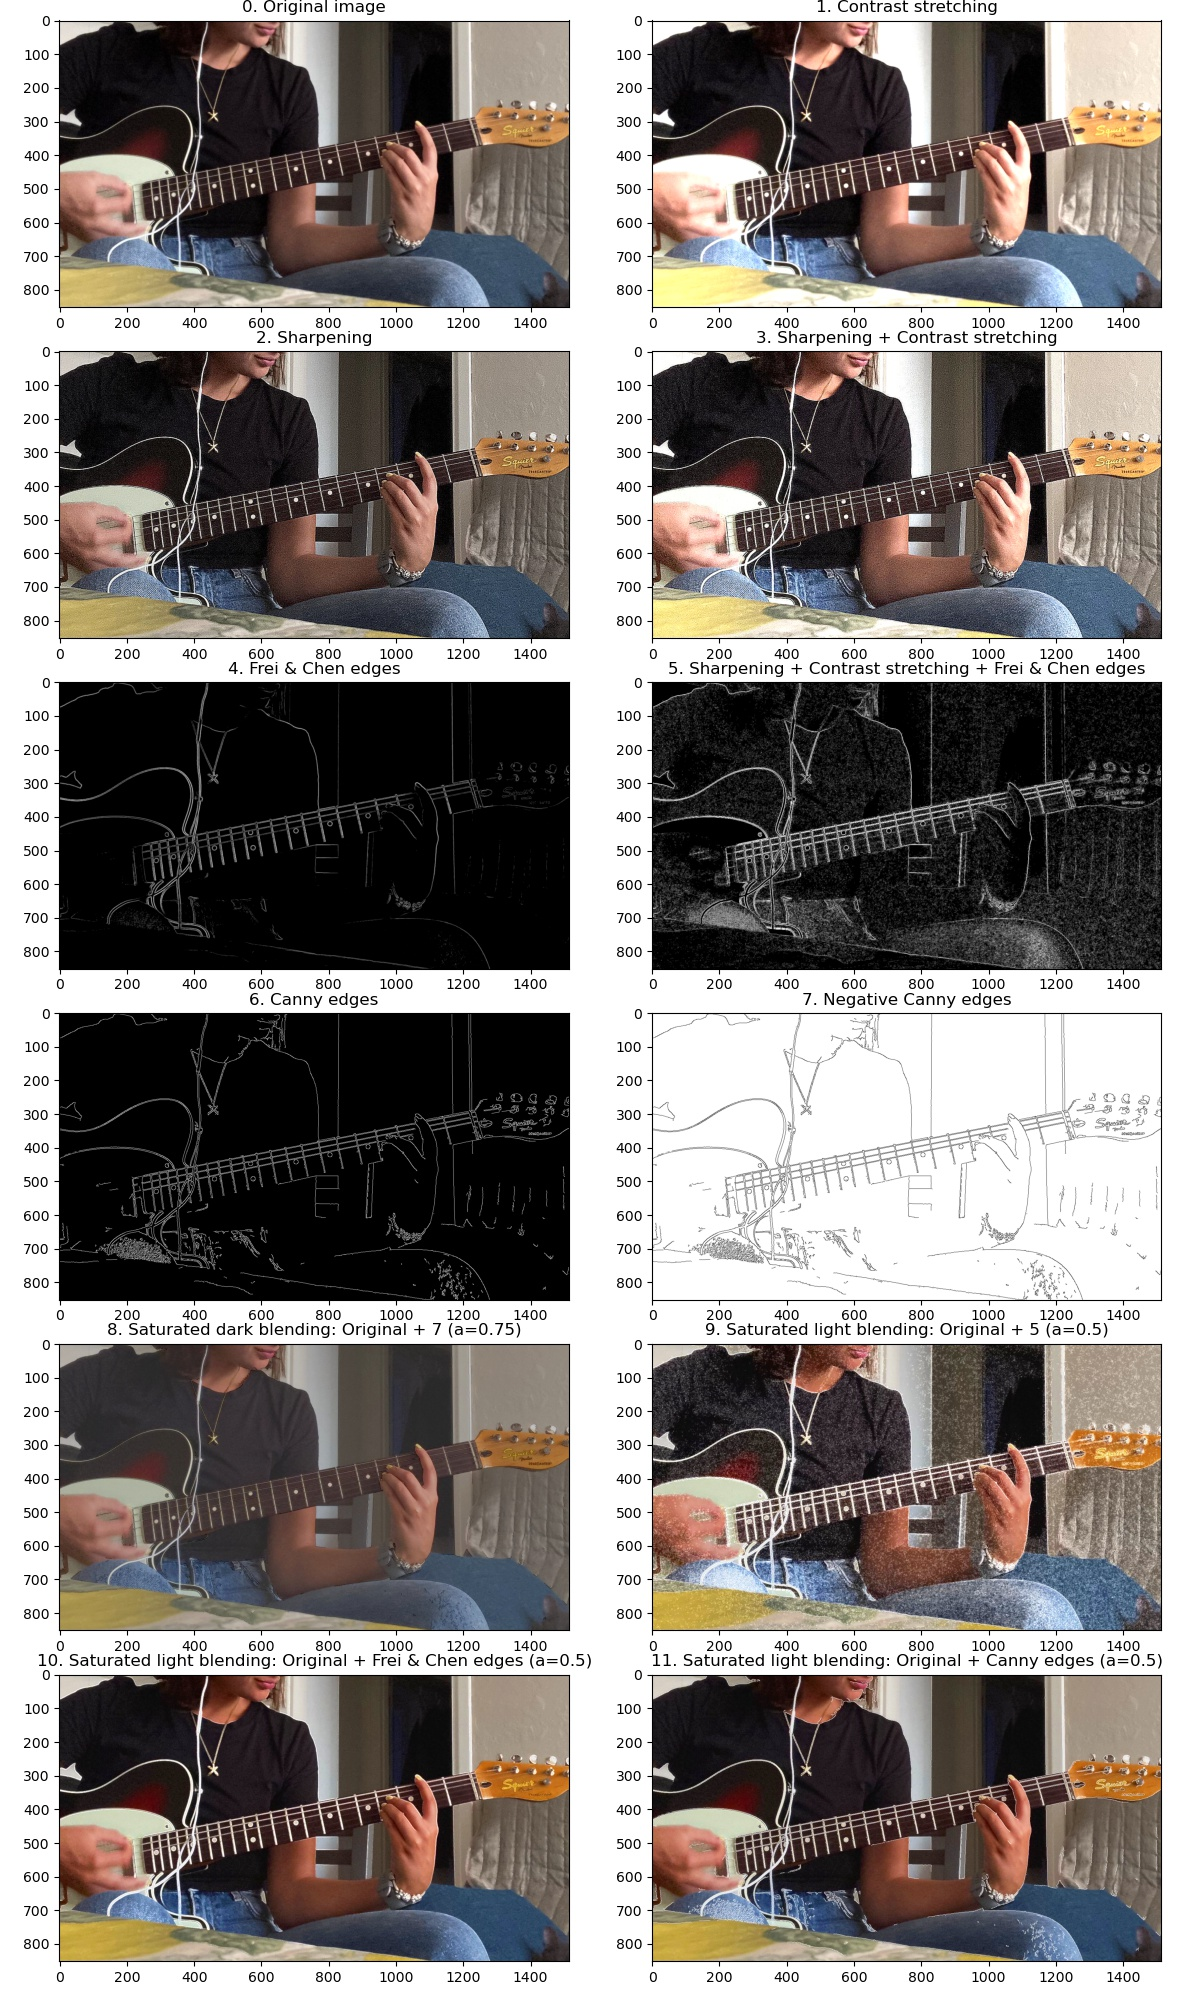
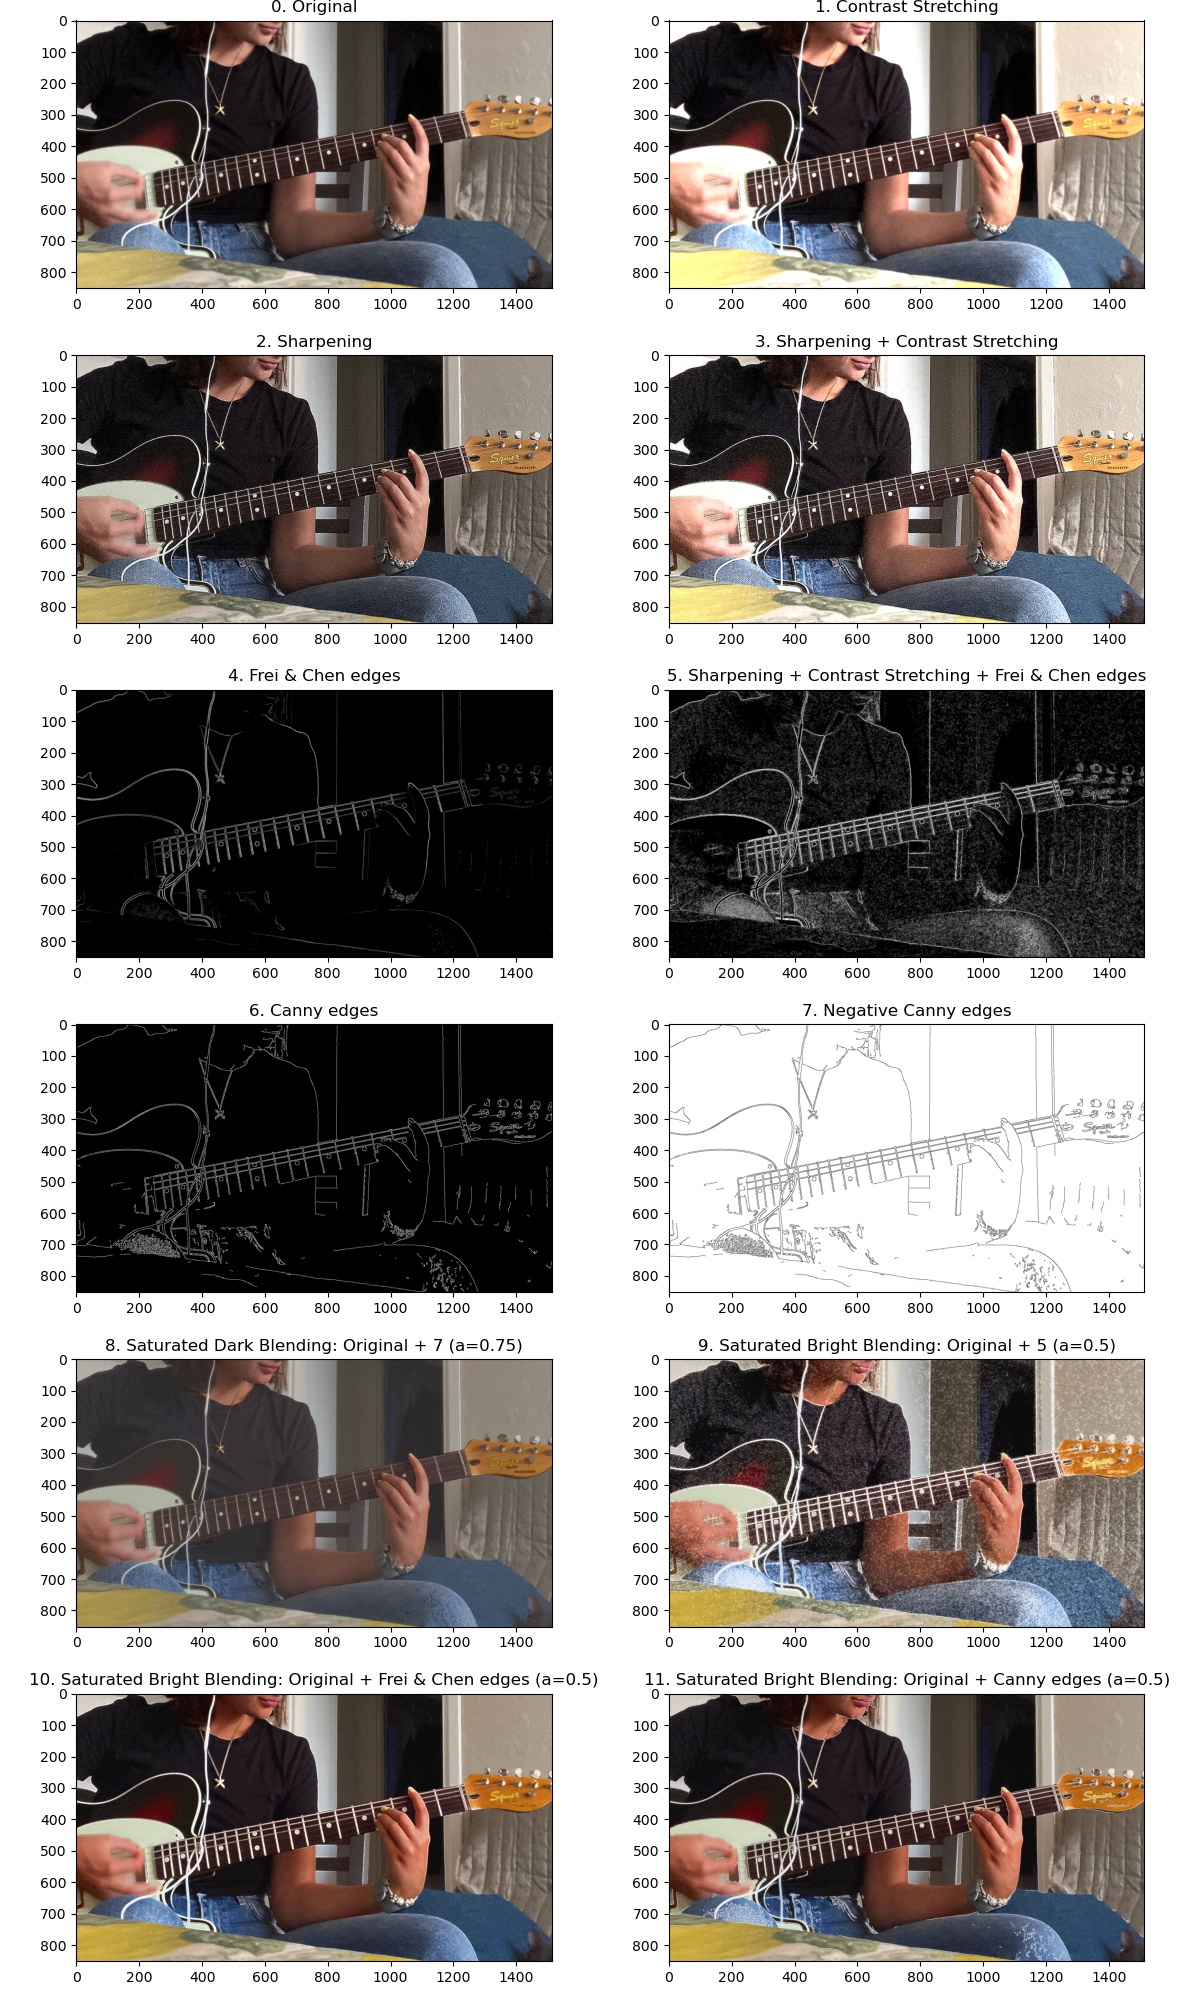
Processing and Temp images updated.

diff --git a/processing.py b/processing.py
@@ -128,10 +128,11 @@ if __name__ == '__main__':
 
     f, ax = plt.subplots(6, 2, figsize=(12, 20))
     f.tight_layout()
+    f.subplots_adjust(hspace=0.25)
 
     # 0 - ORIGINAL IMAGE
     ax[0][0].imshow(cv.cvtColor(img, cv.COLOR_BGR2RGB))
-    ax[0][0].set_title('0. Original image')
+    ax[0][0].set_title('0. Original')
 
     # Convert to Torch tensor (c, h, w)
     # img = np.swapaxes(np.swapaxes(img, 0, 2), 1, 2)
@@ -146,7 +147,7 @@ if __name__ == '__main__':
     # 1 - CONTRAST STRETCHING
     out_1 = contrast_stretching(img, bgr_mins, bgr_maxs, bgr_mins_1, bgr_maxs_1)
     ax[0][1].imshow(cv.cvtColor(out_1.numpy(), cv.COLOR_BGR2RGB))
-    ax[0][1].set_title('1. Contrast stretching')
+    ax[0][1].set_title('1. Contrast Stretching')
 
     # 2 - SHARPENING
     out_2 = sharpening(img)
@@ -156,7 +157,7 @@ if __name__ == '__main__':
     # 3 - SHARPENING + CONTRAST STRETCHING
     out_3 = contrast_stretching(out_2, bgr_mins, bgr_maxs, bgr_mins_1, bgr_maxs_1)
     ax[1][1].imshow(cv.cvtColor(out_3.numpy(), cv.COLOR_BGR2RGB))
-    ax[1][1].set_title('3. Sharpening + Contrast stretching')
+    ax[1][1].set_title('3. Sharpening + Contrast Stretching')
 
     # 4 - FREI & CHEN EDGE DETECTION
     out_4 = frei_and_chen_edges(img)
@@ -166,7 +167,7 @@ if __name__ == '__main__':
     # 5 - SHARPENING + CONTRAST STRETCHING + FREI & CHEN EDGES
     out_5 = frei_and_chen_edges(out_3)
     ax[2][1].imshow(cv.cvtColor(out_5.numpy(), cv.COLOR_BGR2RGB))
-    ax[2][1].set_title('5. Sharpening + Contrast stretching + Frei & Chen edges')
+    ax[2][1].set_title('5. Sharpening + Contrast Stretching + Frei & Chen edges')
 
     # 6 - CANNY EDGE DETECTION
     out_6 = cv.Canny(img.numpy(), threshold1=100, threshold2=200)
@@ -183,27 +184,27 @@ if __name__ == '__main__':
     out_8 = blending(img, negative(out_6), a=0.75)
     out_8 = saturation(decrease_brightness(out_8))
     ax[4][0].imshow(cv.cvtColor(out_8.numpy(), cv.COLOR_BGR2RGB))
-    ax[4][0].set_title('8. Saturated dark blending: Original + 7 (a=0.75)')
+    ax[4][0].set_title('8. Saturated Dark Blending: Original + 7 (a=0.75)')
 
     # 9 - SATURATED LIGHT IMAGE BLENDING with out 5
     out_9 = blending(img, out_5, a=0.5)
     out_9 = saturation(increase_brightness(out_9))
     ax[4][1].imshow(cv.cvtColor(out_9.numpy(), cv.COLOR_BGR2RGB))
-    ax[4][1].set_title('9. Saturated light blending: Original + 5 (a=0.5)')
+    ax[4][1].set_title('9. Saturated Bright Blending: Original + 5 (a=0.5)')
 
     # 10 - SATURATED LIGHT IMAGE BLENDING with Frei & Chen edges
     fc_edges = frei_and_chen_edges(img)
     out_10 = blending(img, fc_edges, a=0.5)
     out_10 = saturation(increase_brightness(out_10))
     ax[5][0].imshow(cv.cvtColor(out_10.numpy(), cv.COLOR_BGR2RGB))
-    ax[5][0].set_title('10. Saturated light blending: Original + Frei & Chen edges (a=0.5)')
+    ax[5][0].set_title('10. Saturated Bright Blending: Original + Frei & Chen edges (a=0.5)')
 
     # 11 - SATURATED LIGHT IMAGE BLENDING with Canny edges
     c_edges = torch.from_numpy(cv.Canny(img.numpy(), threshold1=100, threshold2=200))
     out_11 = blending(img, c_edges, a=0.5)
     out_11 = saturation(increase_brightness(out_11))
     ax[5][1].imshow(cv.cvtColor(out_11.numpy(), cv.COLOR_BGR2RGB))
-    ax[5][1].set_title('11. Saturated light blending: Original + Canny edges (a=0.5)')
+    ax[5][1].set_title('11. Saturated Bright Blending: Original + Canny edges (a=0.5)')
 
     # Saving image processing synthetic table
     plt.savefig(TMP_DIR + 'image_processing_table.jpg')

diff --git a/detect_hands_specific_image.py b/detect_hands_specific_image.py
@@ -119,6 +119,9 @@ def get_hand_image_cropped(img, threshold=0.799, padding=100, verbose=False, sav
     out = cv.cvtColor(out.numpy(), cv.COLOR_RGB2BGR)
     out = torch.from_numpy(out)
     """
+    # Saving image
+    if save_img:
+        cv.imwrite(TMP_DIR+'cropped.jpg', out.numpy())
     return out
 
 
